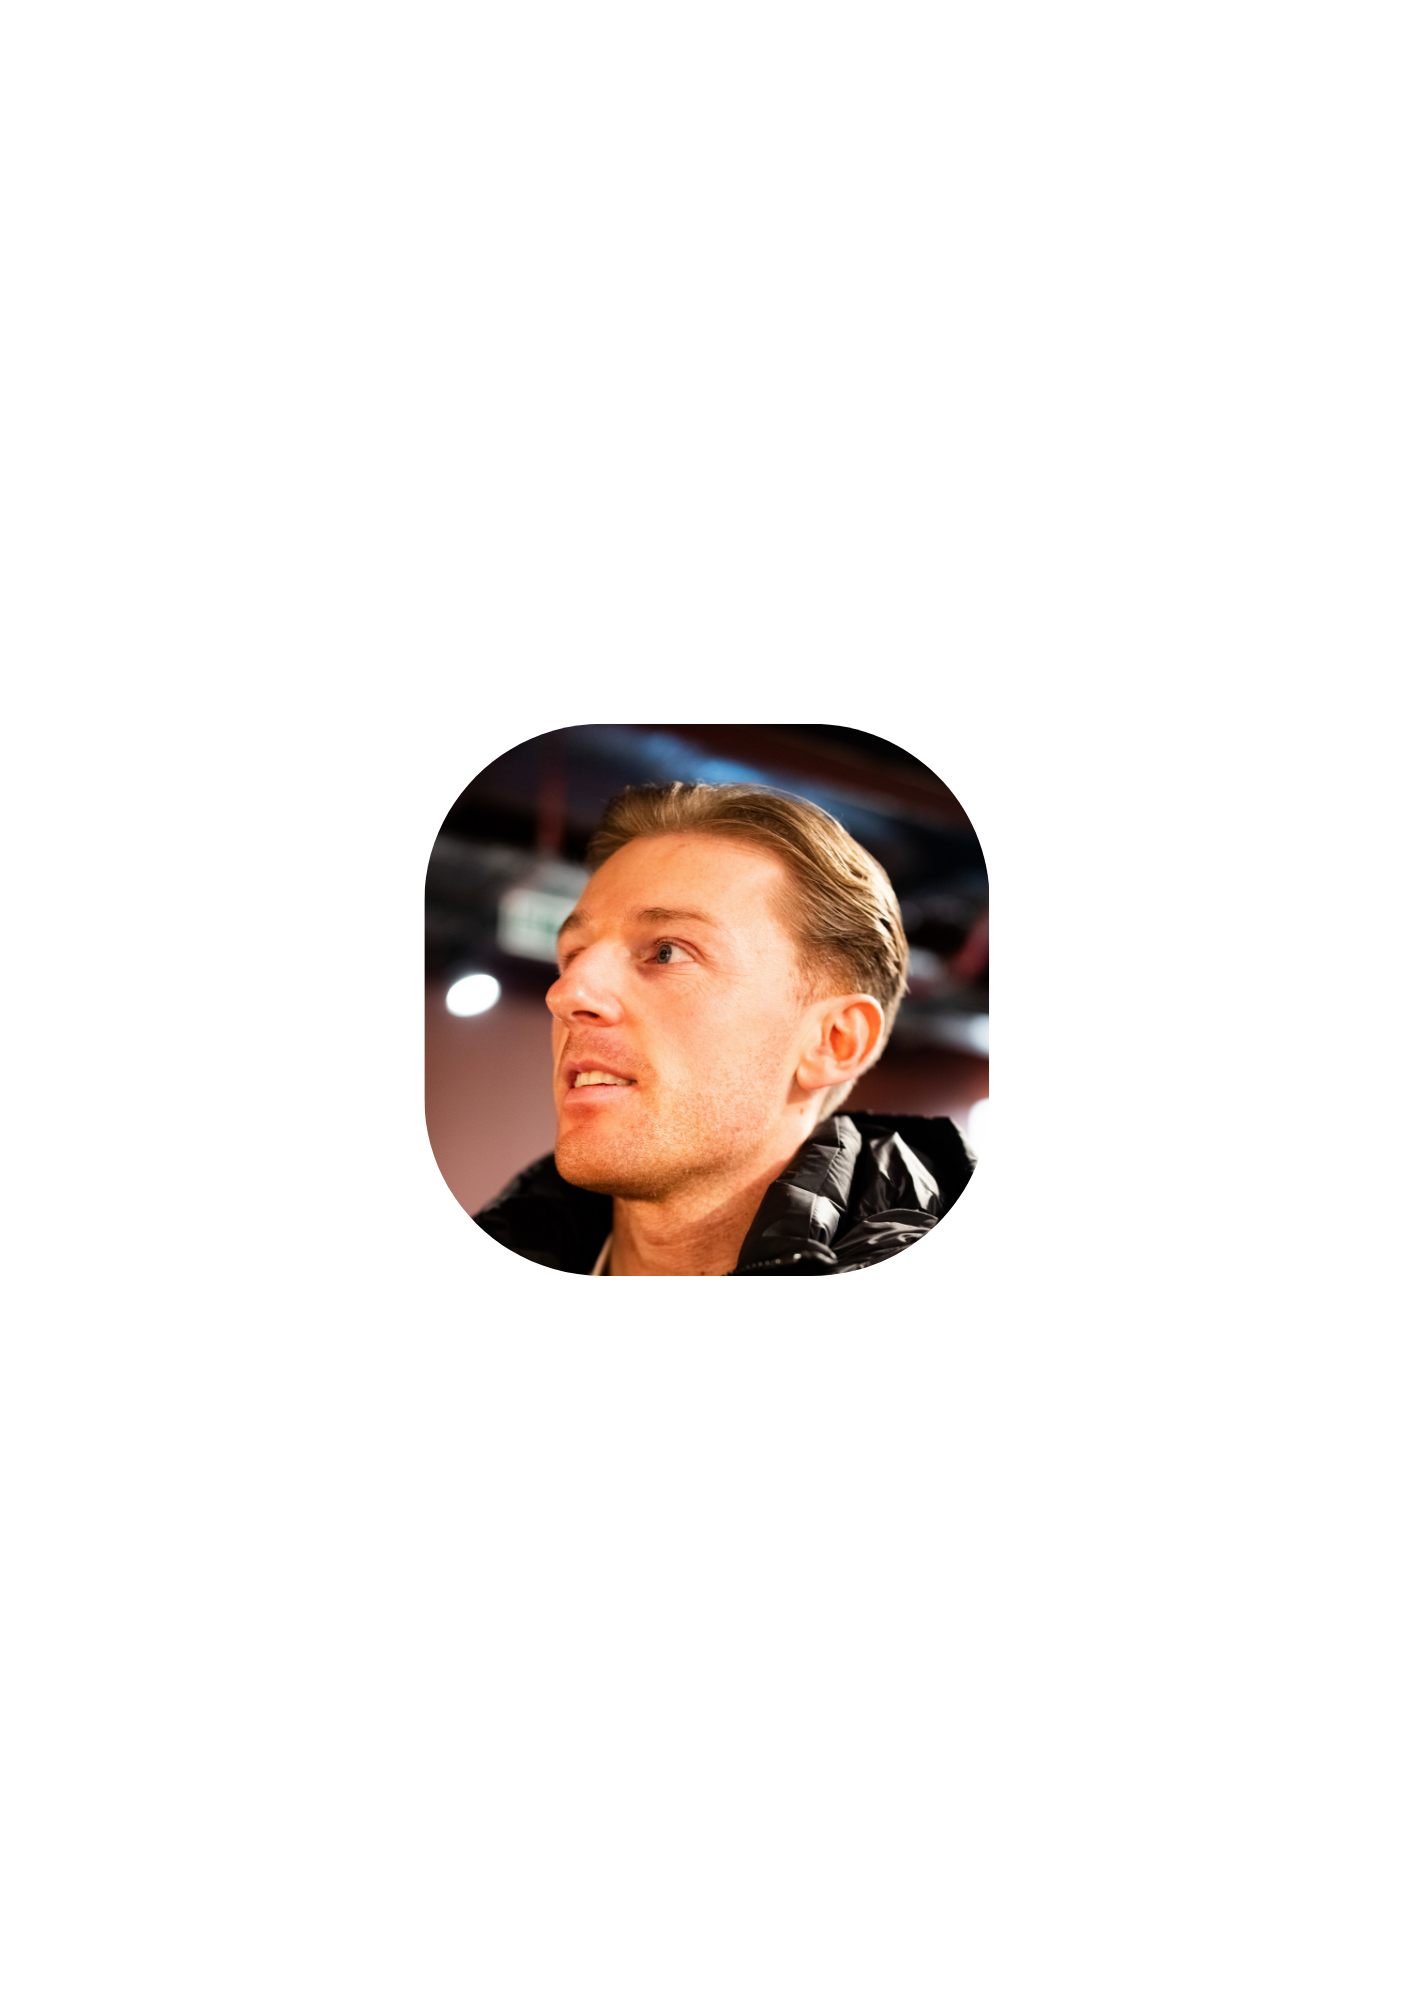
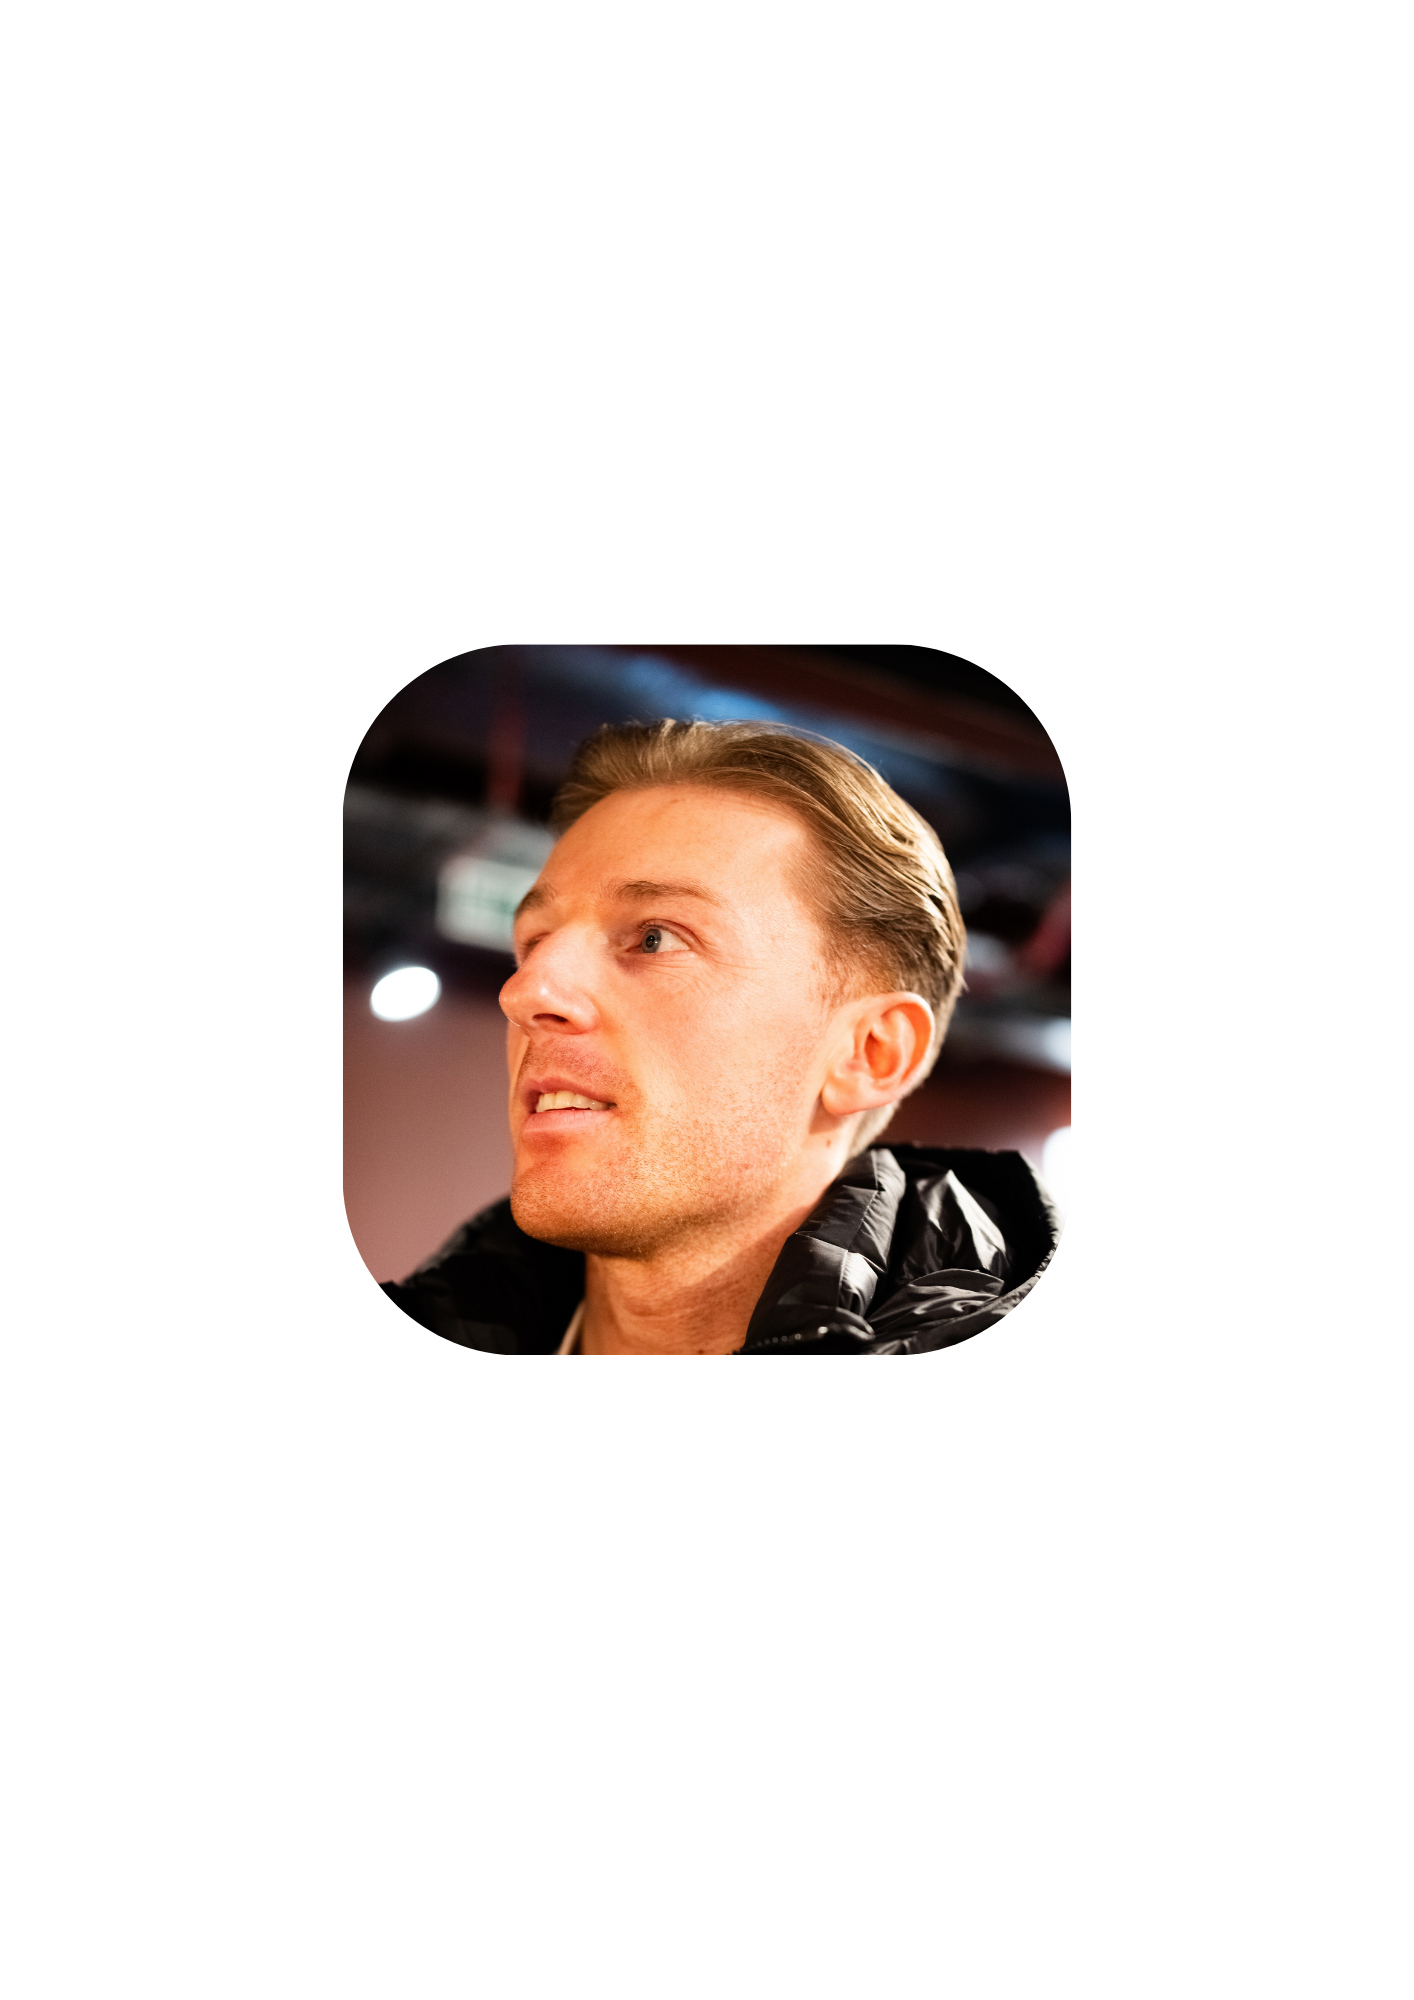
End of day progress

Changed region(s): [[0.2178, 0.31, 0.7779, 0.682]]

diff --git a/src/App.css b/src/App.css
@@ -2235,3 +2235,77 @@ h1 span {
   }
 
 }
+/* ===== Programme Library CTA ===== */
+
+.programLibraryCta {
+  width: min(1180px, calc(100% - 32px));
+  margin: 30px auto 80px;
+  padding: 70px 40px;
+  text-align: center;
+
+  background: linear-gradient(
+    180deg,
+    #101912 0%,
+    #0b120d 100%
+  );
+
+  border: 1px solid rgba(255,255,255,.08);
+  border-radius: 28px;
+
+  box-shadow: 0 30px 80px rgba(0,0,0,.18);
+}
+
+.programLibraryCta .eyebrow{
+  margin-bottom:14px;
+}
+
+.programLibraryCta h2{
+  margin:0 auto 18px;
+  max-width:750px;
+
+  color:#fff;
+  font-size:clamp(2.4rem,5vw,4.5rem);
+  line-height:.95;
+  letter-spacing:-.05em;
+}
+
+.programLibraryCta p{
+  max-width:720px;
+  margin:0 auto 34px;
+
+  color:#AEB8AF;
+  font-size:1.05rem;
+  line-height:1.7;
+}
+
+.programLibraryCta .primaryButton{
+  display:inline-flex;
+  align-items:center;
+  justify-content:center;
+}
+
+@media (max-width:768px){
+
+  .programLibraryCta{
+    width:calc(100% - 24px);
+    padding:48px 24px;
+    margin:24px auto 60px;
+  }
+
+  .programLibraryCta h2{
+    font-size:2.7rem;
+  }
+
+}
+.programLibraryCta .primaryButton,
+.programLibraryCta .primaryButton:link,
+.programLibraryCta .primaryButton:visited,
+.programLibraryCta .primaryButton:hover {
+  text-decoration: none !important;
+}
+.heroLogo {
+  width: 160px;
+  height: auto;
+  display: block;
+  margin: 0 auto 24px;
+}

diff --git a/src/App.jsx b/src/App.jsx
@@ -47,6 +47,7 @@ function App() {
   if (showQuiz) {
     return (
       <Quiz
+      embedded={true}
         onClose={closeAssessment}
         startingAnswer={startingAnswer}
       />
@@ -55,26 +56,16 @@ function App() {
 
   return (
     <main className="page">
-      <nav className="nav">
-        <div className="brand">
-          <div className="logo">BFZ</div>
-          <span>Built From Zero</span>
-        </div>
-
-        <a
-          className="navButton"
-          href="https://linktr.ee/Builtfromzero?"
-          target="_blank"
-          rel="noreferrer"
-        >
-          Apply for coaching
-        </a>
-      </nav>
 
       <section className="hero">
         <div className="heroContent">
+          <img
+  src="/images/brand/Logo.png"
+  alt="Built From Zero"
+  className="heroLogo"
+/>
           <p className="eyebrow">
-            The Built From Zero Starting Point
+            The Built From Zero Quiz 
           </p>
 
           <h1>
@@ -268,7 +259,7 @@ function App() {
             <h3>Built From Zero</h3>
 
             <p>
-              Built From Zero is a coaching company focused on helping
+              Built From Zero is coaching focused on helping
               people lose body fat, build muscle and improve their health
               and performance.
             </p>
@@ -366,7 +357,7 @@ function App() {
             <h3>Training</h3>
 
             <p>
-              A clear programme designed around your goal and ability.
+              A clear structure designed around your goal and ability.
             </p>
           </div>
 
@@ -424,6 +415,29 @@ function App() {
           Apply for coaching →
         </a>
       </section>
+      <section className="programLibraryCta">
+  <p className="eyebrow">
+    Not ready for 1-to-1 coaching?
+  </p>
+
+  <h2>
+    Access the Built From Zero programme library.
+  </h2>
+
+  <p>
+    Access our range training programmes built for strength, endurance and hybrid
+    performance, with clear progression and everything laid out for you.
+  </p>
+
+  <a
+    className="primaryButton"
+    href="https://builtfromzero.programs.app"
+    target="_blank"
+    rel="noreferrer"
+  >
+    Explore the programme library →
+  </a>
+</section>
     </main>
   );
 }

diff --git a/src/components/Quiz.jsx b/src/components/Quiz.jsx
@@ -163,7 +163,7 @@ const results = {
   },
 };
 
-function Quiz({ onClose }) {
+function Quiz({ onClose, embedded = false }) {
   const [currentQuestion, setCurrentQuestion] = useState(0);
   const [selectedAnswers, setSelectedAnswers] = useState([]);
   const [profile, setProfile] = useState('direction');
@@ -270,7 +270,7 @@ function Quiz({ onClose }) {
 
   if (showLeadCapture) {
     return (
-      <section className="quizScreen">
+      <section className={embedded ? "embeddedQuiz" : "quizScreen"}>
         <div className="quizCard leadCaptureCard">
           <div className="quizHeaderRow">
             <button
@@ -368,7 +368,7 @@ function Quiz({ onClose }) {
 
   if (showResult) {
     return (
-      <section className="quizScreen">
+      <section className={embedded ? "embeddedQuiz" : "quizScreen"}>
         <div className="quizCard resultCard">
           <div className="quizTop">
             <span>
@@ -437,7 +437,7 @@ function Quiz({ onClose }) {
   }
 
   return (
-    <section className="quizScreen">
+    <section className={embedded ? "embeddedQuiz" : "quizScreen"}>
       <div className="quizCard guidedQuizCard">
         <div className="quizHeaderRow">
           <button